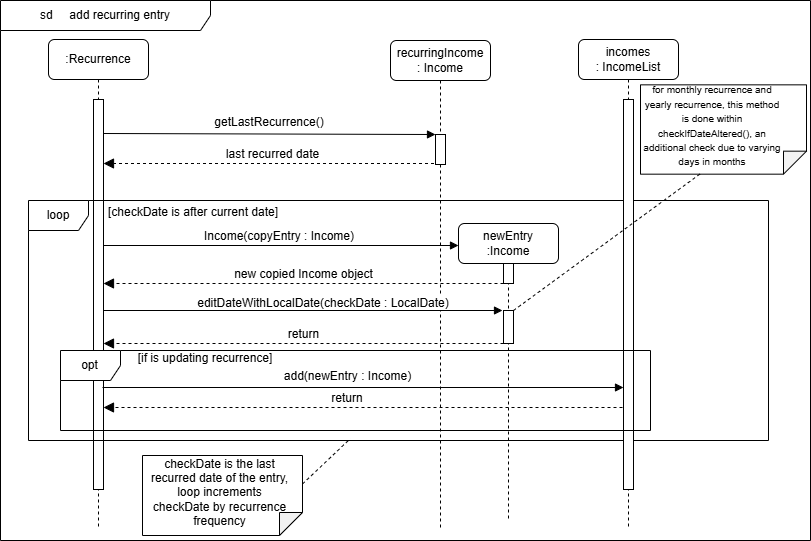
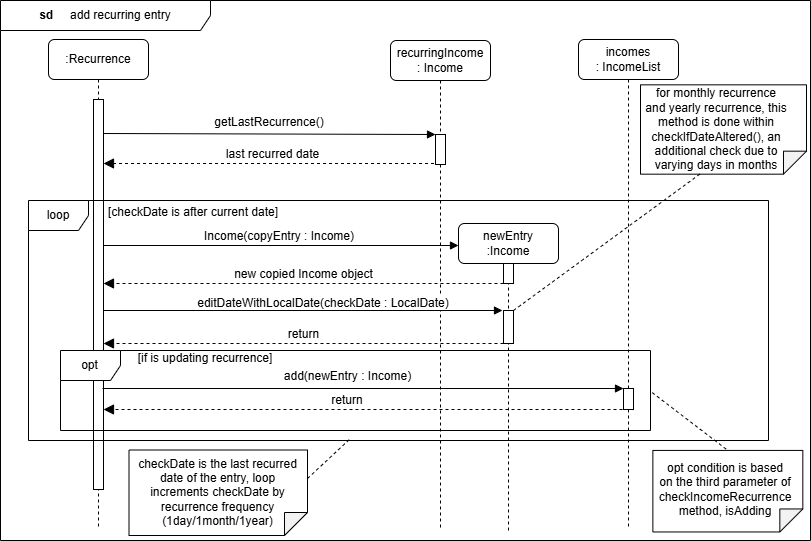
Edit according to PR comments

diff --git a/docs/DeveloperGuide.md b/docs/DeveloperGuide.md
@@ -248,7 +248,7 @@ entries with the specified tag to a String. This string is then printed out.
 + Allows the user to set specific expenditure and incomes as recurring events to increase efficiency when using the
   application
 + Users may have differing frequencies for recurring events thus application gives them a few common options
-+ Users may also want to add multiple older recurring entries that have been missed out 
++ Users may also want to add multiple older recurring entries that have been missed out for a while
 
 Illustrated below is the class diagram for the Recurrence Component:<br>
 <br>
@@ -256,11 +256,11 @@ Illustrated below is the class diagram for the Recurrence Component:<br>
 <br>
 <br>
 Recurrence happens during 2 use cases:
-+ Updating existing entries upon start up
-+ Backlogging recurring entries when a past entry with recurrence is added
++ Recurrence updating of existing entries upon start up
++ Recurrence backlogging when an entry with recurrence dated to the past is added
 
 ### Recurrence Updating
-Illustrated below is the sequence diagram of how Recurrence updates: <br>
+Illustrated below is the sequence diagram of recurrence updating: <br>
 <br>
 <img src="./Diagrams/Recurrence/updatingRecurrenceSD.png" alt="updatingRecurrenceSequenceDiagram" width="700"/>
 <br>
@@ -271,13 +271,15 @@ For the reference frame of 'add recurring entry', refer to
 #### How the recurrence updating works:<br>
 + Upon running the application by the user, `Storage` component will load the `IncomeList` and `SpendingList` members of
 `Wiagi` to retrieve past data.
-+ Both list are then iterated through. Each member of the list is parsed through `Parser` which returns the type of 
-recurrence it is (e.g. `DailyRecurrence`, `null`) which is encapsulated as a `Recurrence` object.
++ `updateRecurrence()` is called
++ Both `SpendingList` and `IncomeList` are then iterated through. Each member of the lists is parsed through 
+`Parser#parseRecurrence` which returns the type of recurrence it is (e.g. `DailyRecurrence`, `null`) 
+which is encapsulated as a `Recurrence` object.
 + If `Recurrence` is not `null` (i.e. a recurring entry), it checks the entry and adds to the `SpendingList` and 
-`IncomeList` if needed. <br>
+`IncomeList` if needed via `Recurrence#checkIncomeRecurrence` or `Recurrence#checkSpendingRecurrence`. <br>
 
 #### Implementation:
-The following are notable classes and methods used to achieve updating in the recurrence component.
+The following are notable classes and methods used to achieve recurrence updating.
 
 ##### Recurrence class
 The `Recurrence` class is an abstract class that provides the interface for checking `Income` and `Spending` and adding 
@@ -306,24 +308,23 @@ public void checkSpendingRecurrence(Spending recurringSpending, SpendingList spe
 Below illustrates the functionality of the checkIncomeRecurrence method through a sequence diagram <br>
 <br>
 <img src="./Diagrams/Recurrence/addRecurrenceEntrySD.png" alt="addRecurrenceEntrySD" width="800"/> <br>
-Note that recurrence frequency is either 1 day (daily), 1 month (monthly) or 1 year (yearly). <br>
 Since checkSpendingRecurrence method follows the same sequence as checkIncomeRecurrence method, the diagram is omitted
-for brevity.
+for conciseness.
 
 Functionality: <br>
-1. Checks `lastRecurred` attribute of `recurringIncome`/`recurringSpending` against the current date via `LocalDate.now`
-2. According to the type of recurrence, check if enough time has passed between the 2 dates
-3. Adds additional recurring entries into the `IncomeList`/`SpendingList` if needed.
-
-Note: <br>
-Parameter `isAdding` is illustrated in the sequence diagram above in the opt condition. It allows the method to add 
-entries to list if set to `true`, it may be set to false when used for backlogging
+1. Checks `lastRecurred` attribute of `recurringIncome`/`recurringSpending`(ie. entry to check) against the current date
+via `LocalDate.now()`
+2. According to the type of recurrence, loops `lastRecurred` with the frequency incrementally
+3. Adds a recurring entry each time into the `IncomeList`/`SpendingList` if date is still of the past. 
+4. isAdding is set to `true` for recurrence updating to allow adding of entries, it may be set to `false` for 
+backlogging as seen later to only update `lastRecurred` attribute to the latest possible recurring date to 
+be checked against in the future for recurrence updating
 
 ##### RecurrenceFrequency enumeration
 The `RecurrenceFrequency` enumeration is used to determine the type of recurring entry of `EntryType` and its child
-classes <br>
+classes, stored in the `recurrenceFrequency` attribute <br>
 Enumeration constants:
-+ `NONE`: Represents a none recurring entry
++ `NONE`: Represents not recurring entry
 + `DAILY`: Represents a daily recurring entry
 + `MONTHLY`: Represents a monthly recurring entry 
 + `YEARLY`: Represents a yearly recurring entry
@@ -337,7 +338,7 @@ public static Recurrence parseRecurrence(EntryType entry)
 Functionality: <br>
 1. Takes in child class of `EntryType` (i.e. `Spending`, `Income`)
 2. Matches the `reccurenceFrequency` attribute with switch case to determine which `Recurrence` child to return
-3. Returns `DailyRecurrence`, `MonthlyRecurrence`, `YearlyRecurrence` or `null`(If not a recurring entry).
+3. Returns `DailyRecurrence`, `MonthlyRecurrence`, `YearlyRecurrence` or `null`(If not a recurring entry) accordingly.
 
 ##### updateRecurrence method
 Class: `SpendingList`, `IncomeList` <br>
@@ -346,7 +347,7 @@ Method Signature:
 public void updateRecurrence()
 ```
 Functionality: <br>
-1. Loops through its list and calls upon `Parser#parseRecurrence` to determine type of `Recurrence`
+1. Loops through the list and calls upon `Parser#parseRecurrence` to determine type of `Recurrence`
 2. Calls upon `Recurrence#checkSpendingRecurrence` or `Recurrence#checkIncomeRecurrence` to update list if the new 
 recurring entry is supposed to be added
 
@@ -358,17 +359,27 @@ protected <T extends EntryType> void checkIfDateAltered(T newEntry, LocalDate ch
 ArrayList<T> list, boolean isAdding)
 ```
 Functionality: <br>
-1. Get the actual day (eg. 31st) of supposed recurrence from first date of entry
+1. Get the actual day (eg. 31st) of supposed recurrence from `dayOfRecurrence` attribute of entry
 2. Get the last day of the current month
 3. Return the date with the minimum of the 2 to ensure that date of recurrence is valid
 
 ### Recurrence backlogging
-Illustrated below is the sequence diagram of recurrence backlogging when past entries with recurrence is added <br>
+The sequence diagram below illustrates the process of backlogging when a recurring entry dated before the current
+day is added <br>
 
 <img src="./Diagrams/Recurrence/recurrenceBacklogSD.png" alt="recurrenceBacklogSD" width="700"/> <br>
 
+#### How the recurrence backlogging works
++ Upon adding an entry with recurrence dated to the past, the `Ui#hasRecurrenceBacklog` method will be called to get
+user input on whether to backlog
++ According to the user input, `Recurrence#checkIncomeRecurrence` or `Recurrence#checkSpendingRecurrence` will be
+called to update the `lastRecurred` attribute of the entry as well as add recurring entries from the entry date to
+current date if user wishes to
+
 #### Implementation
-The following are notable methods used to achieve backlogging in the recurrence component
+The following are notable methods used to achieve recurrence backlogging. Methods `Recurrence#checkIncomeRecurrence`, 
+`Recurrence#checkSpendingRecurrence` and `Parser#parseRecurrence` explained in updating recurrence above is re-used 
+thus omitted below for conciseness
 
 ##### checkRecurrenceBacklog method
 Class: `Recurrence` <br>
@@ -378,10 +389,10 @@ public static <T extends EntryType> void checkRecurrenceBackLog(T toAdd, ArrayLi
 ```
 Functionality:
 1. Calls upon the `Parser#parseRecurrence` method to determine the type fo recurrence
-2. Ask if user wishes to backlog all the past entries from specified date of entry to current date via 
-`Ui#hasRecurrenceBacklog`
-3. Updates the `lastRecurred` attribute of the entry to facilitate future adding of recurrence and updates
-`IncomeList` or `SpendingList` if user wants to backlog via [`Recurrence#checkIncomeRecurrence` and 
+2. Ask if user wishes to backlog all the past entries from date of entry to current date via 
+`Ui#hasRecurrenceBacklog` which returns a boolean, true if yes, false otherwise
+3. Updates the `lastRecurred` attribute of the entry to facilitate future adding of recurrence and if boolean is true, 
+also adds backlog entries to `IncomeList` or `SpendingList` via [`Recurrence#checkIncomeRecurrence` and 
 `Recurrence#checkSpendingRecurrence`](#checkincomerecurrence--checkspendingrecurrence-method)
 
 #### hasRecurrenceBackLog method
